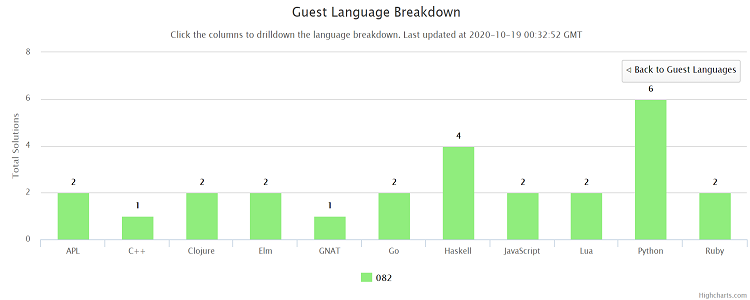
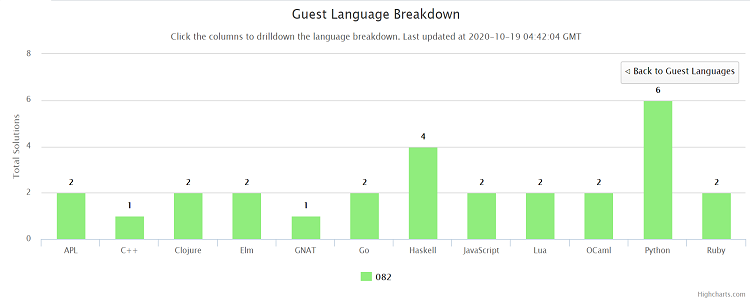
- Tidied up Challenge 83 and RECAP 82.

diff --git a/docs/blog/perl-weekly-challenge-083/index.html b/docs/blog/perl-weekly-challenge-083/index.html
@@ -219,7 +219,7 @@
 <p><img src="/images/blog/contributions-summary-82.png" alt="Contributions Summary"></p>
 <br>
 <p>Welcome <a href="https://github.com/pkmnx">Philip Hood</a> and <a href="https://github.com/ddobbelaere">Dieter Dobbelaere</a> to the <strong>Team PWC</strong>.</p>
-<p>This week, we had <code>26 contributions</code> by guests in <strong>11</strong> different languages. I would like to <code>THANK</code> each and every guest contributors.</p>
+<p>This week, we had <code>28 contributions</code> by guests in <strong>12</strong> different languages. I would like to <code>THANK</code> each and every guest contributors.</p>
 <p><strong>GNAT</strong> is the new language introduced this week by <code>Philip Hood</code>.</p>
 <p><img src="/images/blog/languages-summary-82.png" alt="Languages Summary"></p>
 <br>

diff --git a/docs/blog/recap-challenge-082/index.html b/docs/blog/recap-challenge-082/index.html
@@ -259,9 +259,9 @@
 <h4 id="18-c-6">18) C: 6</h4>
 <h4 id="19-java-5">19) Java: 5</h4>
 <h4 id="20-postscript-5">20) Postscript: 5</h4>
-<h4 id="21-awk-4">21) Awk: 4</h4>
-<h4 id="22-bash-3">22) Bash: 3</h4>
-<h4 id="23-ocaml-3">23) OCaml: 3</h4>
+<h4 id="21-ocaml-5">21) OCaml: 5</h4>
+<h4 id="22-awk-4">22) Awk: 4</h4>
+<h4 id="23-bash-3">23) Bash: 3</h4>
 <h4 id="24-erlang-2">24) Erlang: 2</h4>
 <h4 id="25-html-2">25) HTML: 2</h4>
 <h4 id="26-idris-2">26) Idris: 2</h4>

diff --git a/content/blog/perl-weekly-challenge-083.md b/content/blog/perl-weekly-challenge-083.md
@@ -36,7 +36,7 @@ Checkout the interview with the [**Champion: Myoungjin Jeon**](https://perlweekl
 
 Welcome [Philip Hood](https://github.com/pkmnx) and [Dieter Dobbelaere](https://github.com/ddobbelaere) to the **Team PWC**.
 
-This week, we had `26 contributions` by guests in **11** different languages. I would like to `THANK` each and every guest contributors.
+This week, we had `28 contributions` by guests in **12** different languages. I would like to `THANK` each and every guest contributors.
 
 **GNAT** is the new language introduced this week by `Philip Hood`.
 

diff --git a/content/blog/recap-challenge-082.md b/content/blog/recap-challenge-082.md
@@ -87,9 +87,9 @@ The total contributions in the week is `112`.Well done **Team PWC**. I would als
 #### 18) C: 6
 #### 19) Java: 5
 #### 20) Postscript: 5
-#### 21) Awk: 4
-#### 22) Bash: 3
-#### 23) OCaml: 3
+#### 21) OCaml: 5
+#### 22) Awk: 4
+#### 23) Bash: 3
 #### 24) Erlang: 2
 #### 25) HTML: 2
 #### 26) Idris: 2
